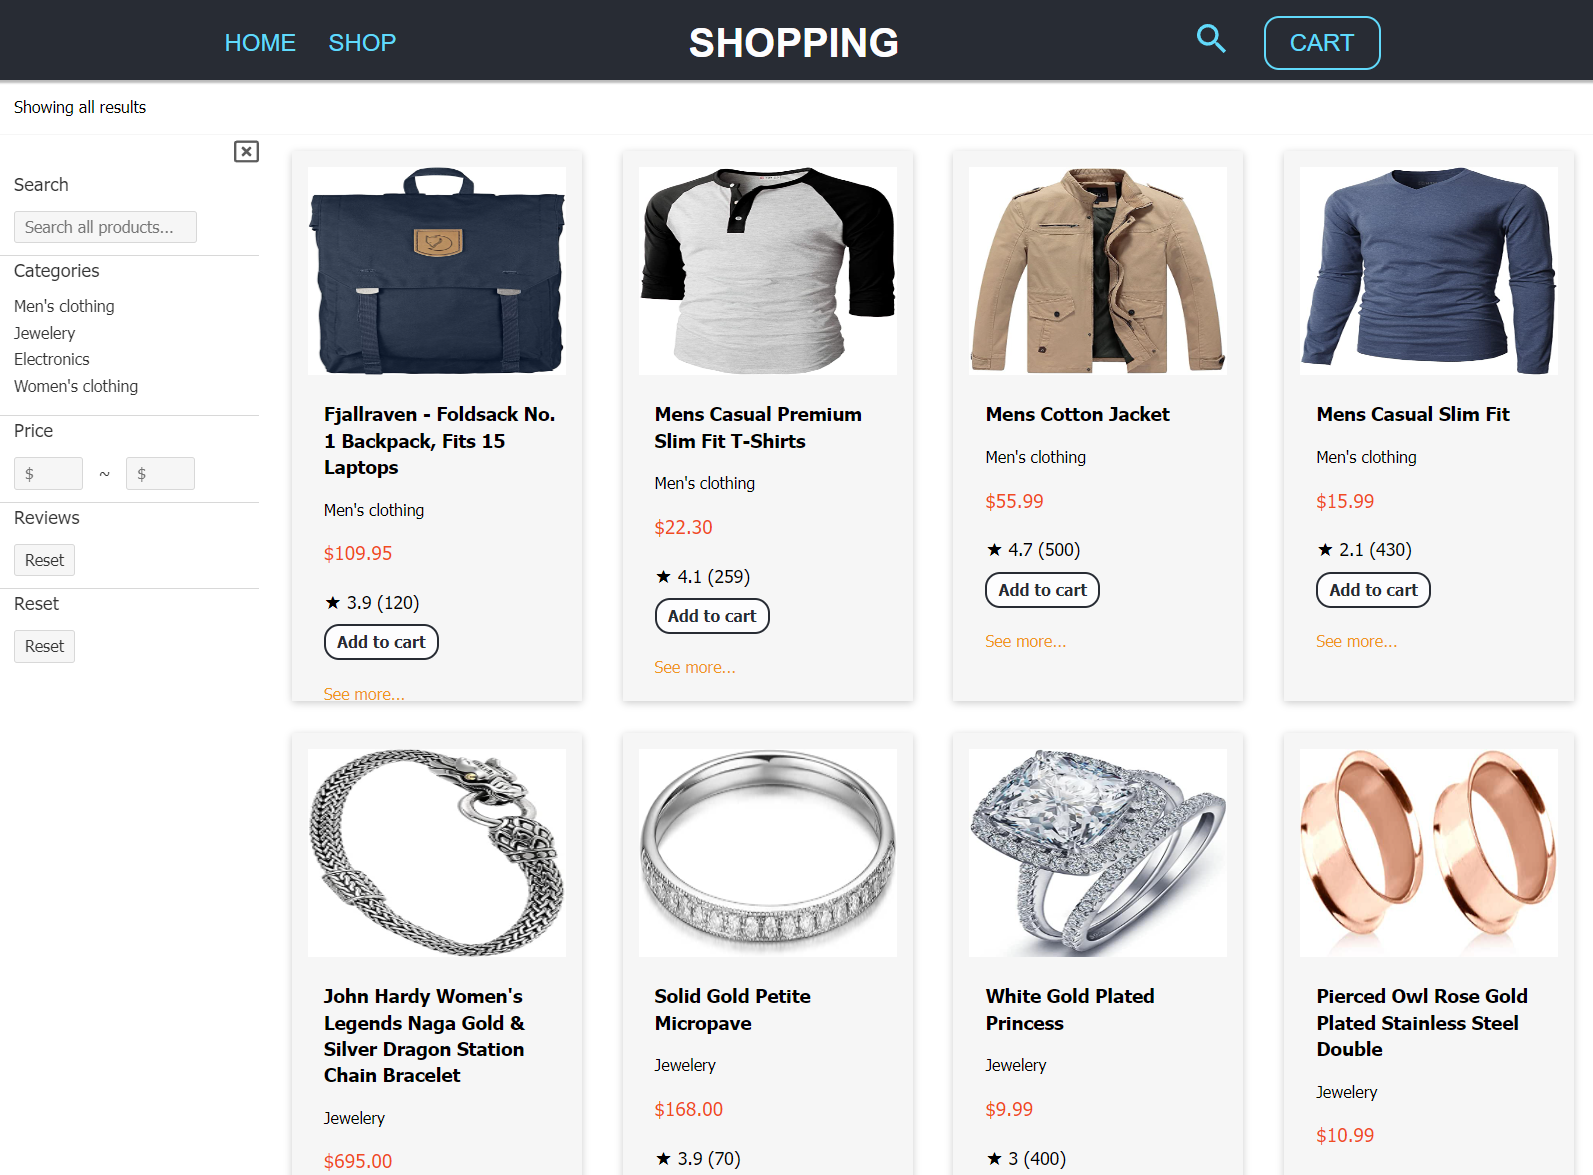
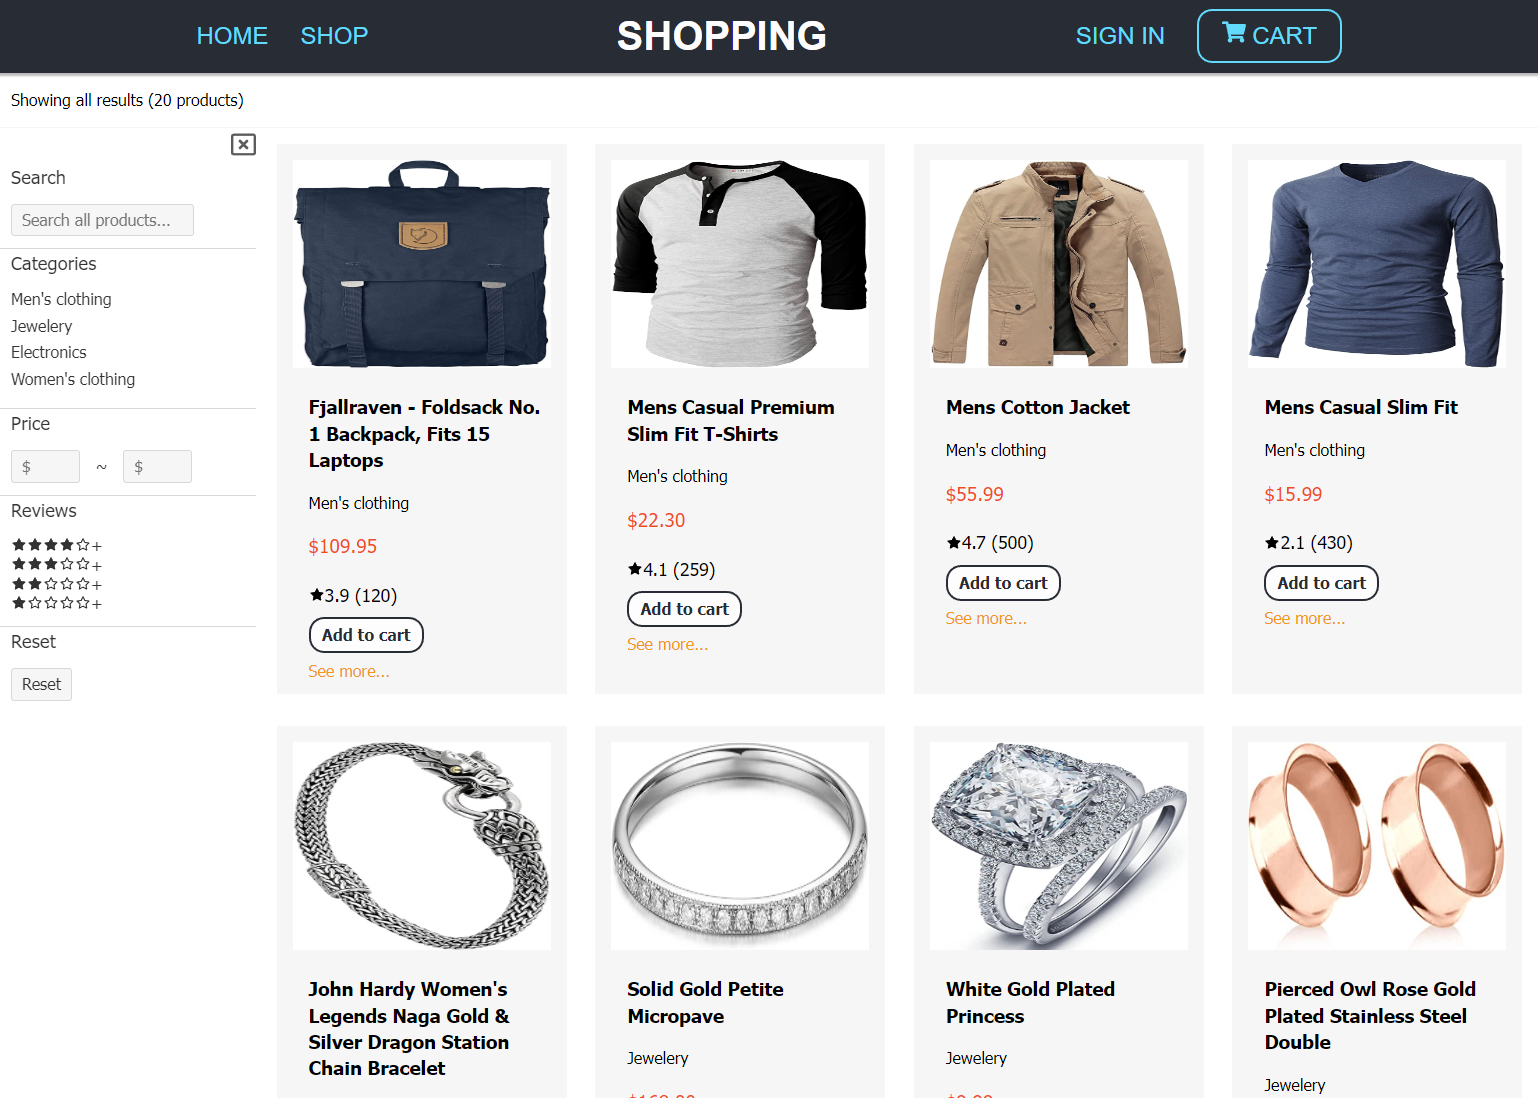
Updated images and description

diff --git a/ja/ja.html b/ja/ja.html
@@ -138,9 +138,9 @@
                 <hr class="project__break">
                 
 
-                <h3 class="project__item"><span>02 </span><a href="https://shopping-three-lovat.vercel.app/">React Shopping App</a> <span class='wip'> (作り中)</span></h3>
+                <h3 class="project__item"><span>02 </span><a href="https://shopping-three-lovat.vercel.app/">React Shopping App</a></h3>
                 <div class="project__img"><img src="../img/projects/Shopping.png" alt="React Shopping Appという作品の画像"></div>
-                <p>Next.jsとReduxを使用したオンライン・ショップです。ユーザーのログイン、カート、フィルターなどもあります</p>
+                <p>Next.jsとReduxを使用したオンライン・ショップのサイトです。ユーザーのOAuthを使ったログイン、カート、検索フィルターなどがあります。</p>
                 <h5><a href="https://github.com/TRobboJ/shopping">コードをGitHubで見る</a></h5>
 <!-- 
                 <hr class="project__break">

diff --git a/index.html b/index.html
@@ -137,9 +137,9 @@
                 <hr class="project__break">
                 
 
-              <h3 class="project__item"><span>02 </span><a href="https://shopping-three-lovat.vercel.app/">React Shopping App</a><span class='wip'> (WIP)</span></h3>
+              <h3 class="project__item"><span>02 </span><a href="https://shopping-three-lovat.vercel.app/">React Shopping App</a></h3>
                 <div class="project__img"><img src="../img/projects/Shopping.png" alt="React Shopping Appという作品の画像"></div>
-                <p>This shopping webpage was created using Next.js & Redux. It boasts a functional user login, cart and product filters.</p>
+                <p>This shopping webpage was created using Next.js & Redux. It boasts a functional OAuth user login, cart and product filters.</p>
                 <h5><a href="https://github.com/TRobboJ/shopping">View the code on GitHub!</a></h5>
 <!-- 
                 <h3 class="project__item"><span>03 </span><a href="#">TBD</a></h3>
